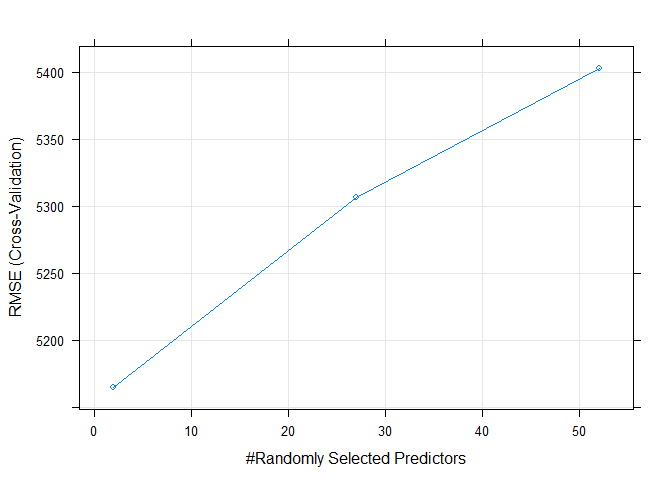
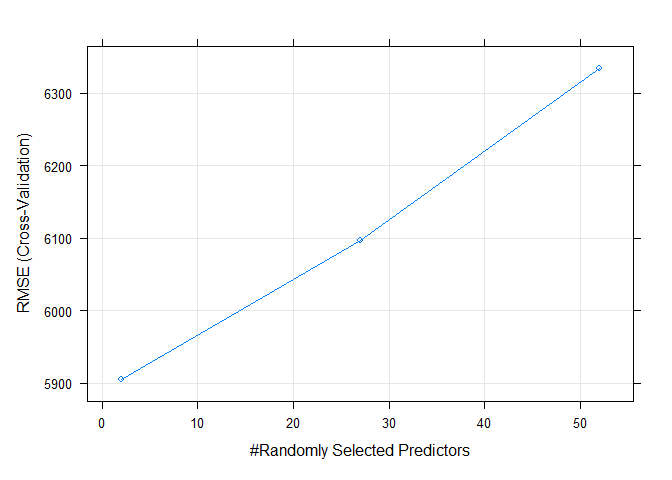
Render

diff --git a/Project2-tech.md b/Project2-tech.md
@@ -8,6 +8,8 @@ library(tidyverse)
 library(knitr)
 library(gridExtra)
 library(caret)
+library(randomForest)
+library(gbm)
 ```
 
 # Introduction
@@ -136,6 +138,13 @@ dataSubset2$day <- ifelse(dataSubset$weekday_is_monday == 1, "Monday",
         variable. Look out for potential skewness and potential data
         distributions here.
 
+    -   The boxplot in the lower right-hand corner are the boxplots of
+        shares for every day of the week. Here you can look for skewness
+        and potential outliers in the data. You can also look for
+        consistencies or inconsistencies across days, which will shed
+        light on the relationship between day of the week and number of
+        shares.
+
 -   The final image:
 
     -   Here you can see a scatterplot for each day of the week of
@@ -167,10 +176,7 @@ g4 <- ggplot(dataSubset, aes(x = num_imgs, y = shares)) + geom_point(color = "Re
 g5 <- ggplot(dataSubset, aes(x = num_videos, y = shares)) + geom_point(color = "Aquamarine") + labs(x = "Number of Videos", y = "Shares", title = "Videos vs Shares") 
 g6 <- ggplot(dataSubset, aes(x = num_hrefs, y = shares)) + geom_point(color = "Purple") + labs(x = "Number of Links", y = "Shares", title = "Links vs Shares") 
 
-# We can move this up to where we have all the package info eventually but wanted to put it here for now
 # Can put all of our scatter plots into a single grid so they're all lined up!
-library(gridExtra)
-
 grid.arrange(g, g2, g3, g4, g5, g6, ncol = 2, nrow = 3)
 ```
 
@@ -332,15 +338,20 @@ fitMLR2 <- train(shares ~ ., data = train,
                 trControl = trainControl(method = "cv", number = 5))
 ```
 
-    ## Warning in predict.lm(modelFit, newdata): prediction from a rank-deficient fit may be misleading
+    ## Warning in predict.lm(modelFit, newdata): prediction from a rank-deficient fit may
+    ## be misleading
 
-    ## Warning in predict.lm(modelFit, newdata): prediction from a rank-deficient fit may be misleading
+    ## Warning in predict.lm(modelFit, newdata): prediction from a rank-deficient fit may
+    ## be misleading
 
-    ## Warning in predict.lm(modelFit, newdata): prediction from a rank-deficient fit may be misleading
+    ## Warning in predict.lm(modelFit, newdata): prediction from a rank-deficient fit may
+    ## be misleading
 
-    ## Warning in predict.lm(modelFit, newdata): prediction from a rank-deficient fit may be misleading
+    ## Warning in predict.lm(modelFit, newdata): prediction from a rank-deficient fit may
+    ## be misleading
 
-    ## Warning in predict.lm(modelFit, newdata): prediction from a rank-deficient fit may be misleading
+    ## Warning in predict.lm(modelFit, newdata): prediction from a rank-deficient fit may
+    ## be misleading
 
 ## Ensamble Models
 
@@ -359,14 +370,12 @@ subsetting predictors will reduce correlation of tree predictions in
 random forest models.
 
 ``` r
-# Training the Random Forest model with 2 fold cross-validation with center and scaling the data via preprocess, and considering the values of mtry of 1 to a third of number of columns in the data with tuneGrid.
-library(randomForest)
+# Training the Random Forest model with 5 fold cross-validation with center and scaling the data via preprocess, and considering the values of mtry of 1 to a third of number of columns in the data with tuneGrid.
 fitRF <- train(shares ~ ., data = train,
                 method = "rf",
                 preProcess = c("center", "scale"),
-                trControl = trainControl(method = "cv", number = 2))
-               
-               #tuneGrid = expand.grid(mtry = c(1:round(ncol(dataSubset)/3))))
+                trControl = trainControl(method = "cv", number = 5))
+                tuneGrid = expand.grid(mtry = c(1:round(ncol(dataSubset)/3)))
 
 # Print out Model
 fitRF
@@ -378,14 +387,14 @@ fitRF
     ##   52 predictor
     ## 
     ## Pre-processing: centered (52), scaled (52) 
-    ## Resampling: Cross-Validated (2 fold) 
-    ## Summary of sample sizes: 2572, 2573 
+    ## Resampling: Cross-Validated (5 fold) 
+    ## Summary of sample sizes: 4116, 4116, 4117, 4115, 4116 
     ## Resampling results across tuning parameters:
     ## 
-    ##   mtry  RMSE       Rsquared     MAE     
-    ##    2     9485.708  0.016130423  2485.182
-    ##   27    10048.634  0.010469903  2638.872
-    ##   52    10693.717  0.008058691  2683.959
+    ##   mtry  RMSE      Rsquared    MAE     
+    ##    2    4621.805  0.04631156  2240.528
+    ##   27    4750.850  0.02921073  2370.588
+    ##   52    4777.877  0.02900217  2384.912
     ## 
     ## RMSE was used to select the optimal model using the smallest value.
     ## The final value used for the model was mtry = 2.
@@ -409,7 +418,6 @@ order to increase the overall accuracy of the model. We’re making use of
 several tuning parameters here during the model building process.
 
 ``` r
-library(gbm)
 fitBT <- train(shares ~., data = train, method = 'gbm',
                preProcess = c("center", "scale"),
                trControl = trainControl(method = "cv", number = 2),
@@ -427,33 +435,33 @@ fitBT
     ## 
     ## Pre-processing: centered (52), scaled (52) 
     ## Resampling: Cross-Validated (2 fold) 
-    ## Summary of sample sizes: 2572, 2573 
+    ## Summary of sample sizes: 2573, 2572 
     ## Resampling results across tuning parameters:
     ## 
-    ##   interaction.depth  n.trees  RMSE       Rsquared     MAE     
-    ##   1                   25       9968.203  0.002740502  2553.546
-    ##   1                   50      10265.375  0.003854309  2600.724
-    ##   1                  100      10050.292  0.003604748  2565.631
-    ##   1                  150      10224.097  0.003816864  2600.126
-    ##   2                   25       9987.060  0.005627574  2546.305
-    ##   2                   50      10152.643  0.006386386  2544.981
-    ##   2                  100      10839.540  0.007733596  2630.154
-    ##   2                  150      11064.559  0.005639022  2632.613
-    ##   3                   25       9684.397  0.008363258  2519.928
-    ##   3                   50       9945.175  0.008274633  2549.028
-    ##   3                  100      10364.962  0.008501509  2595.620
-    ##   3                  150      10680.300  0.009065087  2598.264
-    ##   4                   25       9923.570  0.006543832  2562.797
-    ##   4                   50      10016.629  0.008895722  2567.560
-    ##   4                  100      10258.927  0.010454851  2564.497
-    ##   4                  150      11050.071  0.009253664  2692.212
+    ##   interaction.depth  n.trees  RMSE      Rsquared    MAE     
+    ##   1                   25      4718.696  0.02872634  2215.267
+    ##   1                   50      4716.836  0.02853289  2210.266
+    ##   1                  100      4719.339  0.03010069  2219.150
+    ##   1                  150      4718.744  0.03186952  2206.779
+    ##   2                   25      4706.800  0.03306758  2214.358
+    ##   2                   50      4727.500  0.03096270  2212.371
+    ##   2                  100      4755.369  0.03111782  2229.072
+    ##   2                  150      4773.462  0.03095361  2252.586
+    ##   3                   25      4717.706  0.03056436  2209.395
+    ##   3                   50      4743.840  0.03253625  2211.698
+    ##   3                  100      4780.321  0.03105763  2231.679
+    ##   3                  150      4804.734  0.03254617  2263.801
+    ##   4                   25      4735.572  0.02666372  2225.577
+    ##   4                   50      4778.194  0.02502933  2242.236
+    ##   4                  100      4808.697  0.02733728  2276.838
+    ##   4                  150      4840.428  0.02795427  2331.949
     ## 
     ## Tuning parameter 'shrinkage' was held constant at a value of 0.1
-    ## Tuning parameter
-    ##  'n.minobsinnode' was held constant at a value of 10
+    ## Tuning
+    ##  parameter 'n.minobsinnode' was held constant at a value of 10
     ## RMSE was used to select the optimal model using the smallest value.
-    ## The final values used for the model were n.trees = 25, interaction.depth = 3, shrinkage = 0.1
-    ##  and n.minobsinnode = 10.
+    ## The final values used for the model were n.trees = 25, interaction.depth =
+    ##  2, shrinkage = 0.1 and n.minobsinnode = 10.
 
 ``` r
 # Plot hyperparameters
@@ -494,23 +502,3 @@ print(paste0("The winning model is the ", rownames(winner)))
 ```
 
     ## [1] "The winning model is the Random Forest Model"
-
-``` r
-# Hey! I saw your render code in gitHub and thought I would make some additions. the output_file will create a new output html for every type we enter in. You don't have to use it if you don't want to, just an idea! Also, I think the render function will end up going in our README.
-
-
-renderReport <- function(type){
-  rmarkdown::render("Project-2.Rmd",
-                    params = list(type = type),
-                    output_format = "github_document",
-                    output_options = list(html_preview = FALSE),
-                    output_file = paste0("Project2-", type, ".md")
-                    )
-}
-
-channels <- c("lifestyle","entertainment","bus","socmed","tech","world")
-
-for(c in channels){
-  renderReport(c)
-}
-```

diff --git a/Project2-world.md b/Project2-world.md
@@ -8,6 +8,8 @@ library(tidyverse)
 library(knitr)
 library(gridExtra)
 library(caret)
+library(randomForest)
+library(gbm)
 ```
 
 # Introduction
@@ -136,6 +138,13 @@ dataSubset2$day <- ifelse(dataSubset$weekday_is_monday == 1, "Monday",
         variable. Look out for potential skewness and potential data
         distributions here.
 
+    -   The boxplot in the lower right-hand corner are the boxplots of
+        shares for every day of the week. Here you can look for skewness
+        and potential outliers in the data. You can also look for
+        consistencies or inconsistencies across days, which will shed
+        light on the relationship between day of the week and number of
+        shares.
+
 -   The final image:
 
     -   Here you can see a scatterplot for each day of the week of
@@ -167,10 +176,7 @@ g4 <- ggplot(dataSubset, aes(x = num_imgs, y = shares)) + geom_point(color = "Re
 g5 <- ggplot(dataSubset, aes(x = num_videos, y = shares)) + geom_point(color = "Aquamarine") + labs(x = "Number of Videos", y = "Shares", title = "Videos vs Shares") 
 g6 <- ggplot(dataSubset, aes(x = num_hrefs, y = shares)) + geom_point(color = "Purple") + labs(x = "Number of Links", y = "Shares", title = "Links vs Shares") 
 
-# We can move this up to where we have all the package info eventually but wanted to put it here for now
 # Can put all of our scatter plots into a single grid so they're all lined up!
-library(gridExtra)
-
 grid.arrange(g, g2, g3, g4, g5, g6, ncol = 2, nrow = 3)
 ```
 
@@ -332,15 +338,20 @@ fitMLR2 <- train(shares ~ ., data = train,
                 trControl = trainControl(method = "cv", number = 5))
 ```
 
-    ## Warning in predict.lm(modelFit, newdata): prediction from a rank-deficient fit may be misleading
+    ## Warning in predict.lm(modelFit, newdata): prediction from a rank-deficient fit may
+    ## be misleading
 
-    ## Warning in predict.lm(modelFit, newdata): prediction from a rank-deficient fit may be misleading
+    ## Warning in predict.lm(modelFit, newdata): prediction from a rank-deficient fit may
+    ## be misleading
 
-    ## Warning in predict.lm(modelFit, newdata): prediction from a rank-deficient fit may be misleading
+    ## Warning in predict.lm(modelFit, newdata): prediction from a rank-deficient fit may
+    ## be misleading
 
-    ## Warning in predict.lm(modelFit, newdata): prediction from a rank-deficient fit may be misleading
+    ## Warning in predict.lm(modelFit, newdata): prediction from a rank-deficient fit may
+    ## be misleading
 
-    ## Warning in predict.lm(modelFit, newdata): prediction from a rank-deficient fit may be misleading
+    ## Warning in predict.lm(modelFit, newdata): prediction from a rank-deficient fit may
+    ## be misleading
 
 ## Ensamble Models
 
@@ -359,14 +370,12 @@ subsetting predictors will reduce correlation of tree predictions in
 random forest models.
 
 ``` r
-# Training the Random Forest model with 2 fold cross-validation with center and scaling the data via preprocess, and considering the values of mtry of 1 to a third of number of columns in the data with tuneGrid.
-library(randomForest)
+# Training the Random Forest model with 5 fold cross-validation with center and scaling the data via preprocess, and considering the values of mtry of 1 to a third of number of columns in the data with tuneGrid.
 fitRF <- train(shares ~ ., data = train,
                 method = "rf",
                 preProcess = c("center", "scale"),
-                trControl = trainControl(method = "cv", number = 2))
-               
-               #tuneGrid = expand.grid(mtry = c(1:round(ncol(dataSubset)/3))))
+                trControl = trainControl(method = "cv", number = 5))
+                tuneGrid = expand.grid(mtry = c(1:round(ncol(dataSubset)/3)))
 
 # Print out Model
 fitRF
@@ -378,14 +387,14 @@ fitRF
     ##   52 predictor
     ## 
     ## Pre-processing: centered (52), scaled (52) 
-    ## Resampling: Cross-Validated (2 fold) 
-    ## Summary of sample sizes: 2951, 2949 
+    ## Resampling: Cross-Validated (5 fold) 
+    ## Summary of sample sizes: 4719, 4719, 4721, 4721, 4720 
     ## Resampling results across tuning parameters:
     ## 
     ##   mtry  RMSE      Rsquared    MAE     
-    ##    2    5164.992  0.03187737  1906.960
-    ##   27    5306.610  0.02439327  2034.291
-    ##   52    5402.595  0.01935175  2061.469
+    ##    2    5905.034  0.03741240  1902.653
+    ##   27    6097.229  0.02869794  2048.019
+    ##   52    6333.927  0.02175848  2071.514
     ## 
     ## RMSE was used to select the optimal model using the smallest value.
     ## The final value used for the model was mtry = 2.
@@ -409,7 +418,6 @@ order to increase the overall accuracy of the model. We’re making use of
 several tuning parameters here during the model building process.
 
 ``` r
-library(gbm)
 fitBT <- train(shares ~., data = train, method = 'gbm',
                preProcess = c("center", "scale"),
                trControl = trainControl(method = "cv", number = 2),
@@ -430,30 +438,30 @@ fitBT
     ## Summary of sample sizes: 2950, 2950 
     ## Resampling results across tuning parameters:
     ## 
-    ##   interaction.depth  n.trees  RMSE      Rsquared     MAE     
-    ##   1                   25      5250.541  0.009010707  1883.425
-    ##   1                   50      5255.051  0.011398395  1872.162
-    ##   1                  100      5236.317  0.017174256  1854.698
-    ##   1                  150      5241.544  0.017890385  1864.504
-    ##   2                   25      5290.153  0.008924084  1893.285
-    ##   2                   50      5306.889  0.012542691  1904.094
-    ##   2                  100      5350.761  0.013483820  1931.073
-    ##   2                  150      5381.084  0.014658752  1970.922
-    ##   3                   25      5323.494  0.008661970  1916.707
-    ##   3                   50      5348.628  0.009643850  1928.487
-    ##   3                  100      5377.885  0.013195759  1968.925
-    ##   3                  150      5437.308  0.012373312  2028.148
-    ##   4                   25      5318.196  0.009878563  1931.561
-    ##   4                   50      5358.467  0.012127298  1919.476
-    ##   4                  100      5420.243  0.012591427  2002.121
-    ##   4                  150      5498.343  0.009736476  2066.070
+    ##   interaction.depth  n.trees  RMSE      Rsquared    MAE     
+    ##   1                   25      6327.404  0.01074454  1925.649
+    ##   1                   50      6330.542  0.01260766  1934.118
+    ##   1                  100      6339.349  0.01369618  1919.176
+    ##   1                  150      6313.374  0.01417478  1906.839
+    ##   2                   25      6301.701  0.01434552  1932.219
+    ##   2                   50      6334.400  0.01519371  1943.317
+    ##   2                  100      6349.507  0.01484136  1929.112
+    ##   2                  150      6333.511  0.01781194  1917.707
+    ##   3                   25      6307.756  0.01352437  1918.325
+    ##   3                   50      6320.046  0.01724253  1916.566
+    ##   3                  100      6324.806  0.01975309  1935.239
+    ##   3                  150      6380.867  0.01711783  1976.190
+    ##   4                   25      6301.420  0.01742174  1935.080
+    ##   4                   50      6287.043  0.02461783  1953.825
+    ##   4                  100      6303.900  0.02537766  1969.401
+    ##   4                  150      6321.611  0.02386834  1967.732
     ## 
     ## Tuning parameter 'shrinkage' was held constant at a value of 0.1
-    ## Tuning parameter
-    ##  'n.minobsinnode' was held constant at a value of 10
+    ## Tuning
+    ##  parameter 'n.minobsinnode' was held constant at a value of 10
     ## RMSE was used to select the optimal model using the smallest value.
-    ## The final values used for the model were n.trees = 100, interaction.depth = 1, shrinkage = 0.1
-    ##  and n.minobsinnode = 10.
+    ## The final values used for the model were n.trees = 50, interaction.depth =
+    ##  4, shrinkage = 0.1 and n.minobsinnode = 10.
 
 ``` r
 # Plot hyperparameters
@@ -493,24 +501,4 @@ winner <- try %>% filter(RMSE == min(RMSE))
 print(paste0("The winning model is the ", rownames(winner)))
 ```
 
-    ## [1] "The winning model is the Random Forest Model"
-
-``` r
-# Hey! I saw your render code in gitHub and thought I would make some additions. the output_file will create a new output html for every type we enter in. You don't have to use it if you don't want to, just an idea! Also, I think the render function will end up going in our README.
-
-
-renderReport <- function(type){
-  rmarkdown::render("Project-2.Rmd",
-                    params = list(type = type),
-                    output_format = "github_document",
-                    output_options = list(html_preview = FALSE),
-                    output_file = paste0("Project2-", type, ".md")
-                    )
-}
-
-channels <- c("lifestyle","entertainment","bus","socmed","tech","world")
-
-for(c in channels){
-  renderReport(c)
-}
-```
+    ## [1] "The winning model is the Main Effects Model"
